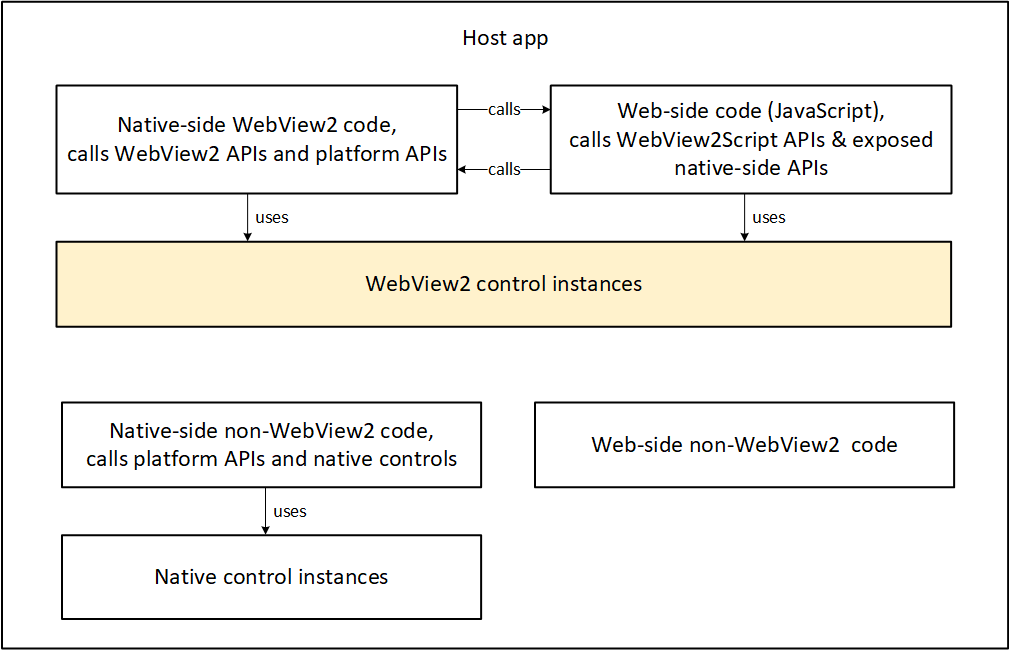
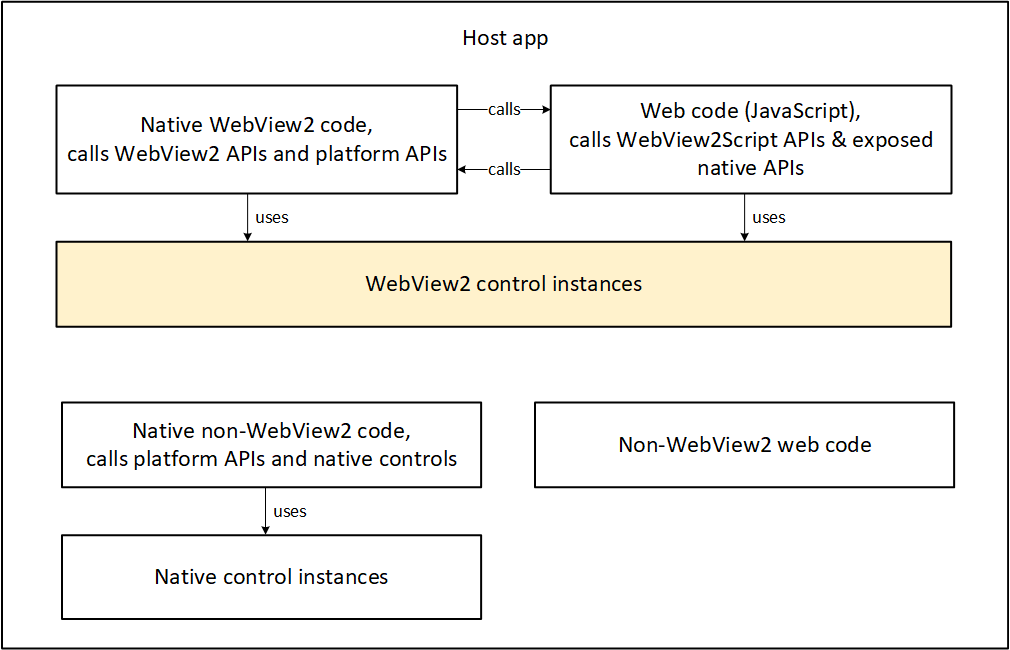
linkfix

diff --git a/microsoft-edge/webview2/concepts/platform-architecture.md b/microsoft-edge/webview2/concepts/platform-architecture.md
@@ -1,6 +1,6 @@
 ---
 title: Architecture of the WebView2 platform
-description: Host web content in your Win32, .NET, UWP apps with the Microsoft Edge WebView2 control.
+description: Which parts of WebView2 reside on the Dev and user machine.  How native code and controls interact with web code and the WebView2 control.
 author: MSEdgeTeam
 ms.author: msedgedevrel
 ms.topic: conceptual
@@ -48,11 +48,11 @@ Details of Distribute the Runtime:
 
 Details of the User machine:
 *  Host app
-   *  WebView2 native-side code
-   *  WebView2 web-side code
+   *  WebView2 native code
+   *  WebView2 web code
    *  WebView2 control instances
-   *  Non-WebView2 native-side code
-   *  Non-WebView2 web-side code
+   *  Non-WebView2 native code
+   *  Non-WebView2 web code
    *  Native control instances
 *  Runtime
 
@@ -134,22 +134,22 @@ Runtime (for Release SDK) - WebView2Script package (JavaScript APIs)
 Browser (for Prerelease SDK) - WebView2Script package (JavaScript APIs)
 
 
-You periodically download the latest SDK from NuGet.  NuGet links are in [Release Notes for the WebView2 SDK](./release-notes.md).
+You periodically download the latest SDK from NuGet.  NuGet links are in [Release Notes for the WebView2 SDK](../release-notes.md).
 
 The SDK includes the JavaScript API, which is in the `WebView2Script` package.
 
 See also:
-* [WebView2 API Reference](./webview2-api-reference.md)
+* [WebView2 API Reference](../webview2-api-reference.md)
 
 
 <!-- ====================================================================== -->
 ## Design architecture of a WebView2 app
 
 A host app contains the following categories of code and components:
-*  Native-side code calls platform APIs and WebView2 APIs
-*  WebView2 control instance
-*  Native-side code calls platform APIs and WebView2 APIs
-*  Web-side JavaScript code calls WebView2Script APIs & exposed native-side APIs
+*  Native code calls platform APIs and WebView2 APIs.
+*  WebView2 control instance.
+*  Native code calls platform APIs and WebView2 APIs.
+*  Web (JavaScript) code calls WebView2Script APIs & exposed native APIs.
 
 
 <!-- ------------------------------ -->
@@ -158,14 +158,14 @@ A host app contains the following categories of code and components:
 ![Design architecture of a WebView2 app](./platform-architecture-images/app-design.png)
 
 Categories of code:
-*  Native-side WebView2 code, calls WebView2 APIs and platform APIs.
-*  Web-side code (JavaScript), calls WebView2Script APIs & exposed native-side APIs.
-*  Native-side non-WebView2 code, calls platform APIs and native controls.
-*  Web-side non-WebView2 code.
+*  Native WebView2 code, calls WebView2 APIs and platform APIs.
+*  Web code (JavaScript), calls WebView2Script APIs & exposed native APIs.
+*  Native non-WebView2 code, calls platform APIs and native controls.
+*  Non-WebView2 web code (JavaScript).
 
 Two-way code:
-*  Call web-side code from native-side code
-*  Call native-side code from web-side code
+*  Call web code (JavaScript) from native code.
+*  Call native code from web code (JavaScript).
 
 
 <!-- ====================================================================== -->
@@ -212,7 +212,7 @@ The above approaches are listed in the same sequence as in the [Download the Web
 _Your app's installer_ means your app's installer/updater, which can be separate from your app, or a part of your app.
 
 See also:
-* [Understanding the options at the Runtime download page](./concepts/distribution.md#understanding-the-options-at-the-runtime-download-page) in _Distribute your app and the WebView2 Runtime_.
+* [Understanding the options at the Runtime download page](./distribution.md#understanding-the-options-at-the-runtime-download-page) in _Distribute your app and the WebView2 Runtime_.
 
 
 <!-- ====================================================================== -->
@@ -240,9 +240,9 @@ The WebView2 control acts as an intermediary for communication between the host 
 
 
 See also:
-* [Understanding the options at the Runtime download page](./concepts/distribution.md#understanding-the-options-at-the-runtime-download-page) in _Distribute your app and the WebView2 Runtime_.
-* [Prerelease and release SDKs for WebView2](./concepts/versioning.md)
-* [Distribute your app and the WebView2 Runtime](./concepts/distribution.md)
+* [Understanding the options at the Runtime download page](./distribution.md#understanding-the-options-at-the-runtime-download-page) in _Distribute your app and the WebView2 Runtime_.
+* [Prerelease and release SDKs for WebView2](./versioning.md)
+* [Distribute your app and the WebView2 Runtime](./distribution.md)
 
 
 <!-- ====================================================================== -->
@@ -257,7 +257,7 @@ To distribute your prerelease app to your test machine:
 * On your test machine, install a preview channel of Microsoft Edge.
 
 See also:
-* [Understand the different WebView2 SDK versions](./concepts/versioning.md) - Either use a prerelease SDK with a preview channel of Microsoft Edge, or use a release SDK with the WebView2 Runtime.
+* [Understand the different WebView2 SDK versions](./versioning.md) - Either use a prerelease SDK with a preview channel of Microsoft Edge, or use a release SDK with the WebView2 Runtime.
 
 
 <!-- ====================================================================== -->
@@ -273,7 +273,7 @@ There are several ways to distribute your app and the Runtime to users.  See [Wa
 
 
 See also:
-* [Understand the different WebView2 SDK versions](./concepts/versioning.md) - Either use a prerelease SDK with a preview channel of Microsoft Edge, or use a release SDK with the WebView2 Runtime.
+* [Understand the different WebView2 SDK versions](./versioning.md) - Either use a prerelease SDK with a preview channel of Microsoft Edge, or use a release SDK with the WebView2 Runtime.
 
 
 <!-- ====================================================================== -->
@@ -294,7 +294,7 @@ todo
 *  Docs - the present article is the main page for WebView2 docs. <!--[Introduction to Microsoft Edge WebView2](./index.md)-->
 *  Runtime installer download page - see [Download the WebView2 Runtime](https://developer.microsoft.com/microsoft-edge/webview2#download-section).
 *  NuGet SDK package download site - see [Microsoft.Web.WebView2](https://www.nuget.org/packages/Microsoft.Web.WebView2) at NuGet.org.
-*  GitHub Repos and support - see [Contact the WebView2 Team](./contact.md).  Direct links:
+*  GitHub Repos and support - see [Contact the WebView2 Team](../contact.md).  Direct links:
    *  [WebView2Samples repo](https://github.com/MicrosoftEdge/WebView2Samples) - contains completed Getting Started article projects (minimal code) and code-rich Samples.
    *  [WebView2Announcements repo](https://github.com/MicrosoftEdge/WebView2Announcements)
    *  [WebView2Feedback repo](https://github.com/MicrosoftEdge/WebView2Feedback)
@@ -309,9 +309,9 @@ todo
 <!-- ====================================================================== -->
 ## See also
 
-* [Overview of WebView2 features and APIs](concepts/overview-features-apis.md)
-* [Getting Started tutorials](get-started/get-started.md)
-* [Distribute your app and the WebView2 Runtime](concepts/distribution.md)
+* [Overview of WebView2 features and APIs](./overview-features-apis.md)
+* [Getting Started tutorials](../get-started/get-started.md)
+* [Distribute your app and the WebView2 Runtime](./distribution.md)
 
 developer.microsoft.com:
 * [Microsoft Edge WebView2](https://developer.microsoft.com/microsoft-edge/webview2) - initial introduction to WebView2 features at developer.microsoft.com.
